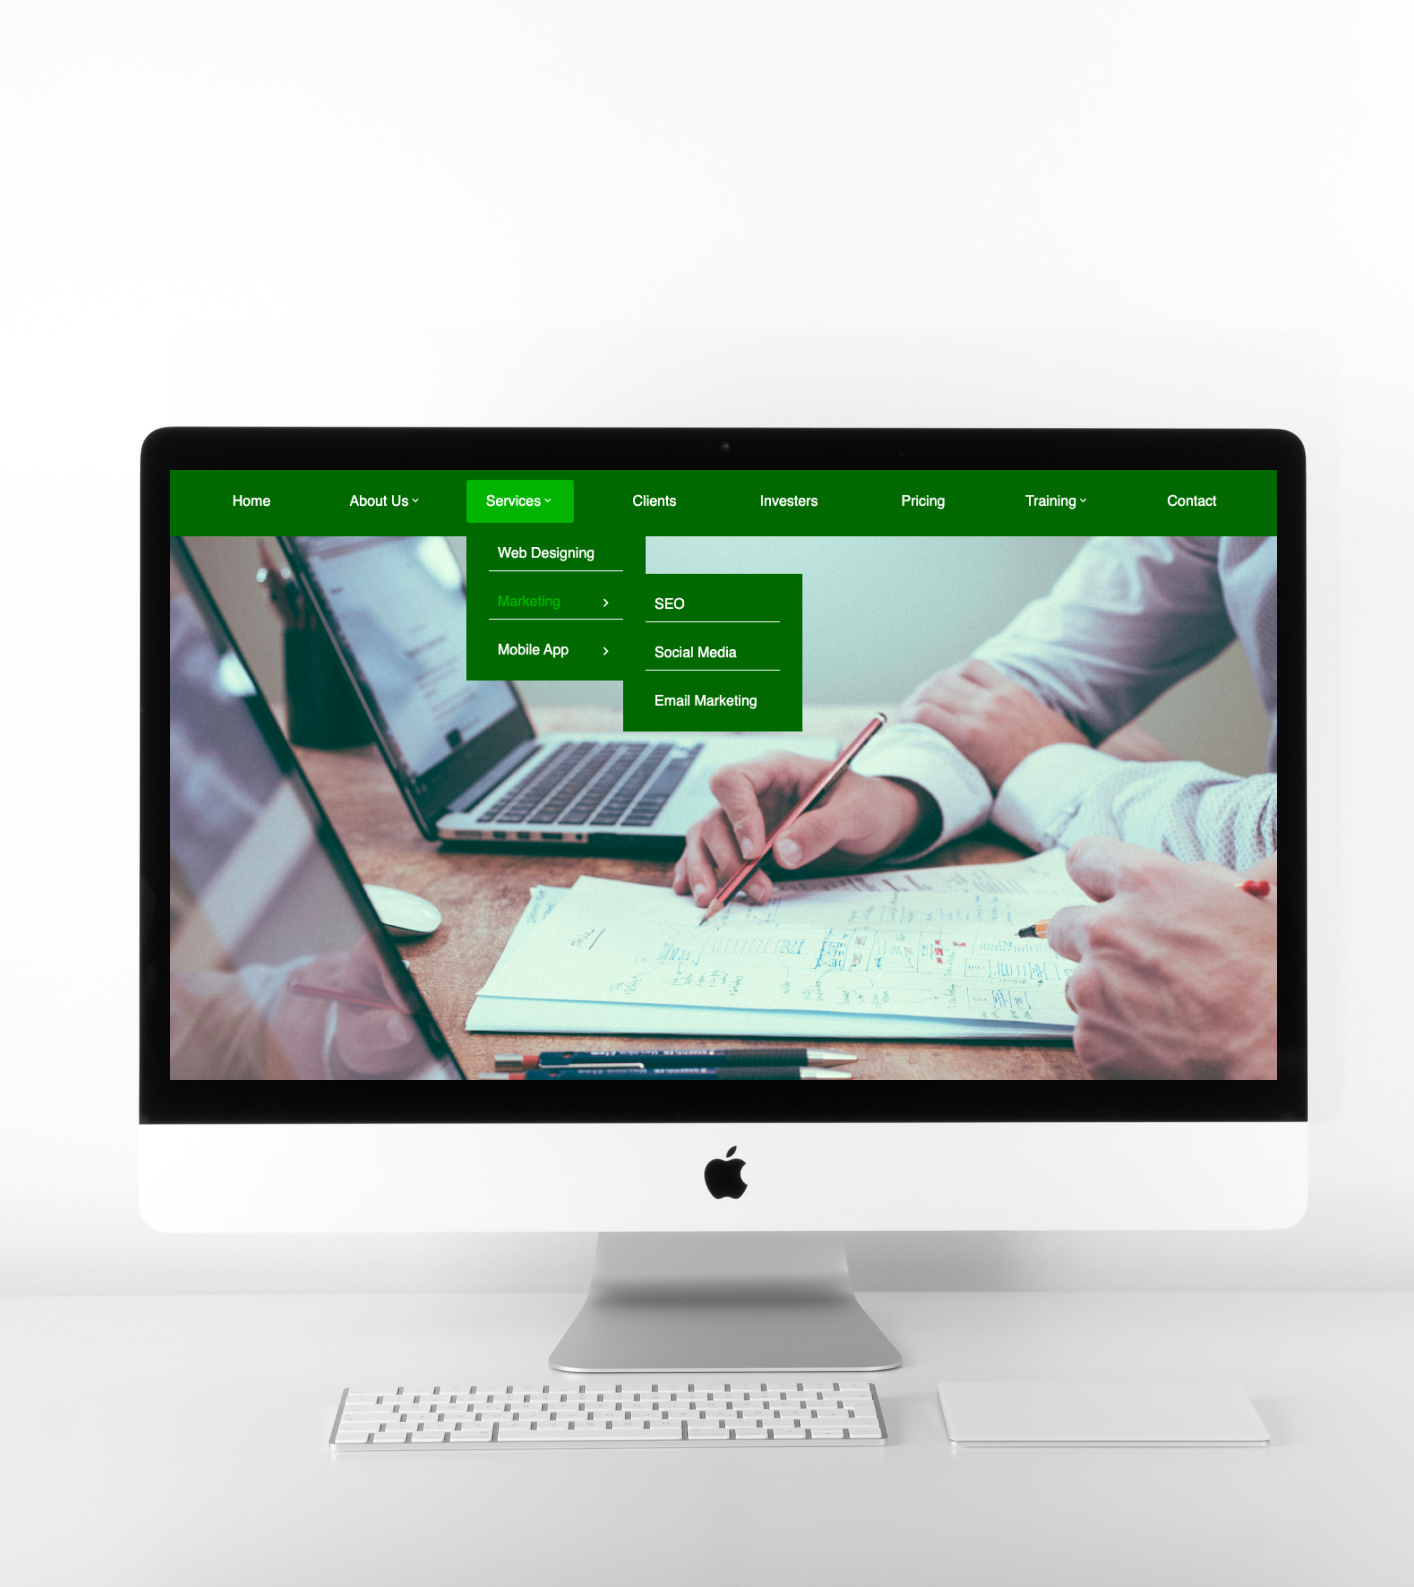
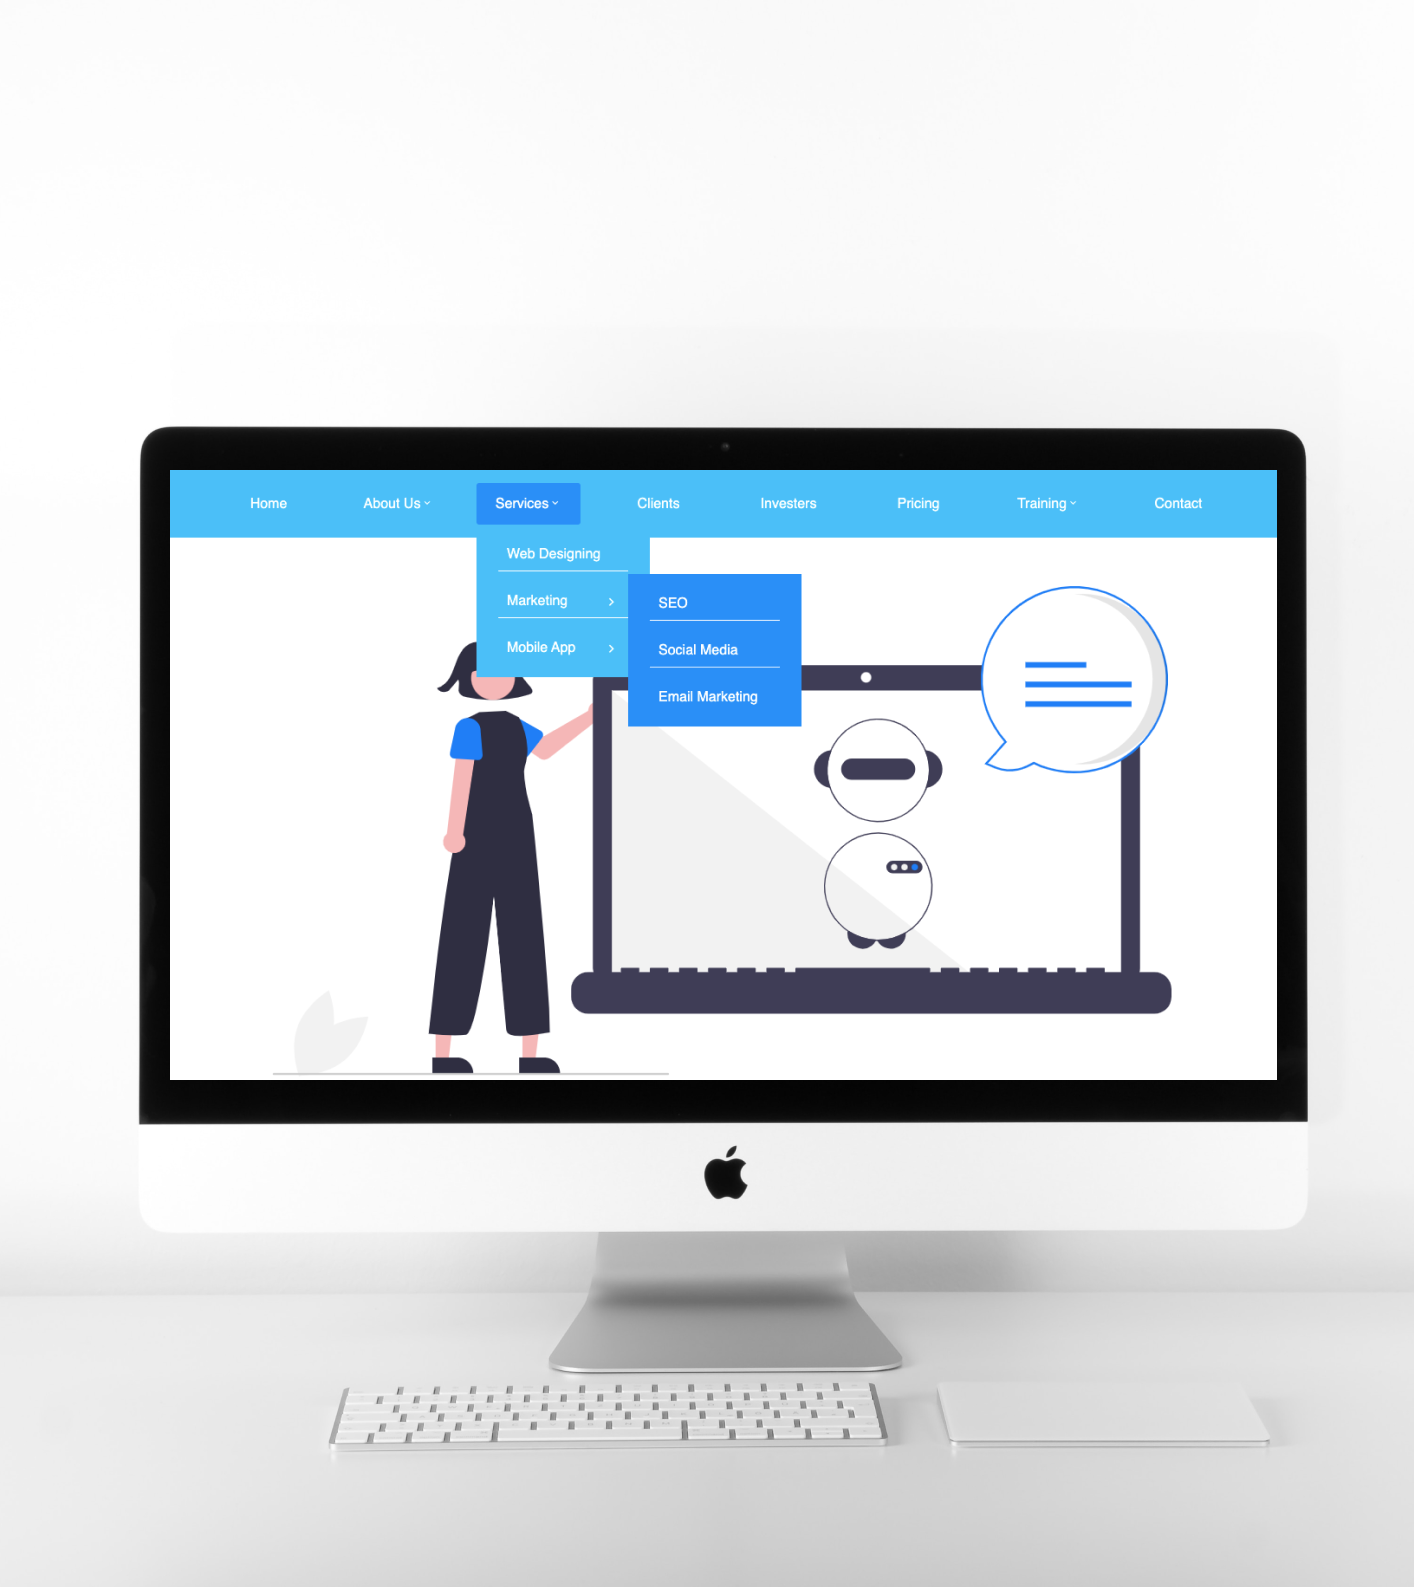
update

Changed region(s): [[0.0934, 0.2779, 0.9024, 0.6793]]

diff --git a/style.css b/style.css
@@ -5,13 +5,12 @@
   box-sizing: border-box;
 }
 body{
-  background-image: url(background2.jpg);
-  background-size:cover;
-  background-position:initial;
+
+  background-color: #fff;
   font-family: sans-serif;
 }
 .menu-bar {
-  background: rgb(0, 100, 0);
+  background: 	#00BFFF;
   text-align: center;
 }
 .menu-bar ul {
@@ -29,7 +28,7 @@ body{
   color: #fff;
 }
 .active, .menu-bar ul li:hover{
-  background: #2bab0d;
+  background: #1E90FF;
   border-radius: 3px;
 }
 .sub-menu-1{
@@ -38,7 +37,7 @@ body{
 .menu-bar ul li:hover .sub-menu-1{
   display: block;
   position: absolute;
-  background: rgb(0, 100, 0);
+  background:#00BFFF;
   margin-top: 15px;
   margin-left: -15px;
 }
@@ -58,7 +57,7 @@ body{
   border-bottom: none;
 }
 .menu-bar ul li:hover .sub-menu-1 ul li a:hover{
-  color: #2bab0d;
+  color: #E0FFFF;
 }
 .bx-chevron-right{
   float: right;
@@ -72,8 +71,16 @@ body{
   position: absolute;
   margin-top: -40px;
   margin-left: 140px ;
-  background:  rgb(0, 100, 0);;
+  background:  #1E90FF;
 }
 .bx-chevron-down{
   font-size: 15px;
+}
+
+.imagem img{
+  display: block;
+  margin-left: 200px;
+  margin-right: auto;
+  margin-top: 56px;
+  width: 72%;
 }

diff --git a/index.html b/index.html
@@ -80,5 +80,8 @@
       <li><a href="#">Contact</a></li>
     </ul>
   </div>  
+  <div class="imagem">
+    <img src="images/background1.svg" alt="">
+  </div>
 </body>
 </html>
